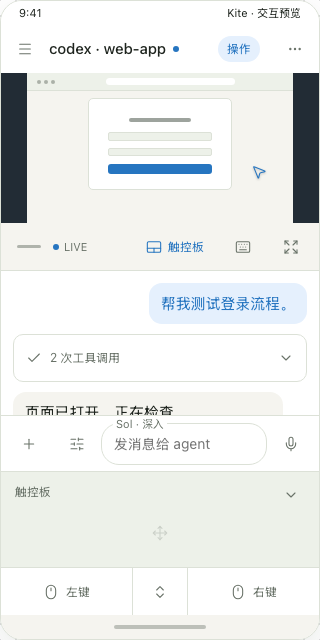
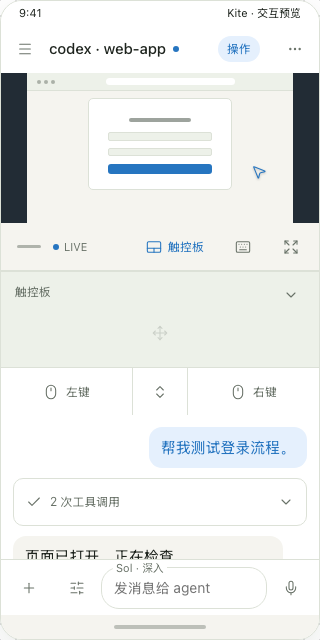
Place the trackpad below the desktop and above chat

diff --git a/docs/product/2026-10-30/compact-controls/compact-controls.html b/docs/product/2026-10-30/compact-controls/compact-controls.html
@@ -49,7 +49,7 @@
     #kite-compact-preview .input-shell{position:relative;flex:1;min-width:0;height:42px;border:1px solid var(--kite-line);border-radius:18px;background:var(--kite-surface)}
     #kite-compact-preview .model-label{position:absolute;left:11px;top:-8px;background:var(--kite-surface);padding:0 3px;color:var(--kite-muted);font-size:11px;white-space:nowrap}
     #kite-compact-preview .input-shell input{width:100%;height:100%;padding:6px 12px;border:0;outline-offset:2px;background:transparent;font-size:14px}
-    #kite-compact-preview .bottom{flex:none;overflow:hidden;background:var(--kite-bg)}
+    #kite-compact-preview .bottom,#kite-compact-preview .pad-slot{flex:none;overflow:hidden;background:var(--kite-bg)}
     #kite-compact-preview .trackpad{position:relative}
     #kite-compact-preview .trackpad::before{content:"";position:absolute;top:0;left:0;right:0;height:1px;background:var(--kite-line);z-index:1;pointer-events:none}
     #kite-compact-preview .pad-area{position:relative;display:block;width:100%;height:calc(var(--kite-pad-height,176px) - 48px);padding:0;background:var(--kite-soft);color:var(--kite-muted);border-radius:0;cursor:default}
@@ -83,7 +83,7 @@
     #kite-compact-preview .popover{position:absolute;z-index:10;right:8px;bottom:80px;width:240px;padding:14px;background:var(--kite-surface);border:1px solid var(--kite-line);border-radius:14px;box-shadow:0 8px 24px #00000026}
     #kite-compact-preview .popover label{display:block;font-size:12px;color:var(--kite-muted);margin-bottom:8px}
     #kite-compact-preview .popover select{display:block;width:100%;min-height:44px;border:1px solid var(--kite-line);border-radius:6px;background:var(--kite-surface);padding:6px;font:inherit;color:var(--kite-ink)}
-    #kite-compact-preview .is-fullscreen .status,#kite-compact-preview .is-fullscreen .appbar,#kite-compact-preview .is-fullscreen .divider,#kite-compact-preview .is-fullscreen .chat,#kite-compact-preview .is-fullscreen .composer,#kite-compact-preview .is-fullscreen .bottom,#kite-compact-preview .is-fullscreen .nav{display:none}
+    #kite-compact-preview .is-fullscreen .status,#kite-compact-preview .is-fullscreen .appbar,#kite-compact-preview .is-fullscreen .divider,#kite-compact-preview .is-fullscreen .pad-slot,#kite-compact-preview .is-fullscreen .chat,#kite-compact-preview .is-fullscreen .composer,#kite-compact-preview .is-fullscreen .bottom,#kite-compact-preview .is-fullscreen .nav{display:none}
     #kite-compact-preview .is-fullscreen .main{height:100%}
     #kite-compact-preview .is-fullscreen .video{flex:1;height:auto!important}
     #kite-compact-preview .is-fullscreen .rail{display:flex}
@@ -92,9 +92,9 @@
     #kite-compact-preview .is-fullscreen.keyboard-visible .rail{display:none}
     #kite-compact-preview .feedback{position:absolute;pointer-events:none;z-index:7;left:50%;top:10px;transform:translateX(-50%);background:var(--kite-dark);color:var(--kite-on-dark);padding:5px 10px;border-radius:10px;font-size:11px}
     #kite-compact-preview .sr{position:absolute;width:1px;height:1px;overflow:hidden;clip-path:inset(50%)}
-    @media(prefers-reduced-motion:no-preference){#kite-compact-preview .bottom{transition:height 180ms ease-out}#kite-compact-preview .login{transition:transform 180ms ease-out}}
+    @media(prefers-reduced-motion:no-preference){#kite-compact-preview .bottom,#kite-compact-preview .pad-slot{transition:height 180ms ease-out}#kite-compact-preview .login{transition:transform 180ms ease-out}}
   </style>
-  <section class="device" aria-label="Kite 分屏与底部触控板交互草案">
+  <section class="device" aria-label="Kite 桌面、触控板、Chat 布局草案">
     <div class="status"><span>9:41</span><span>Kite · 交互预览</span></div>
     <header class="appbar">
       <button type="button" class="ctl cursor-interaction" aria-label="会话列表"><i data-lucide="menu" aria-hidden="true"></i></button>
@@ -118,19 +118,7 @@
         <button type="button" class="ctl cursor-interaction" data-action="keyboard" aria-label="打开键盘"><i data-lucide="keyboard" aria-hidden="true"></i></button>
         <button type="button" class="ctl cursor-interaction" data-action="fullscreen" aria-label="全屏桌面"><i data-lucide="expand" aria-hidden="true"></i></button>
       </div>
-      <div class="chat" aria-label="聊天">
-        <div class="message user">帮我测试登录流程。</div>
-        <button type="button" class="tool cursor-interaction" aria-expanded="false"><i data-lucide="check" aria-hidden="true"></i><span>2 次工具调用</span><i data-lucide="chevron-down" aria-hidden="true"></i></button>
-        <div class="tool-detail" hidden>打开浏览器 · 检查登录页面</div>
-        <div class="message">页面已打开，正在检查。<br>你也可以<strong>直接点桌面</strong>，或用下方触控板操作。</div>
-      </div>
-      <div class="composer">
-        <button type="button" class="ctl cursor-interaction" data-action="attach" aria-label="添加附件"><i data-lucide="plus" aria-hidden="true"></i></button>
-        <button type="button" class="ctl cursor-interaction" data-action="model" aria-label="模型与思考强度"><i data-lucide="sliders-horizontal" aria-hidden="true"></i></button>
-        <label class="input-shell"><span class="model-label">Sol · 深入</span><input readonly inputmode="none" placeholder="发消息给 agent" aria-label="聊天输入预览"></label>
-        <button type="button" class="ctl cursor-interaction" data-action="voice" aria-label="语音输入"><i data-lucide="mic" aria-hidden="true"></i></button>
-      </div>
-      <div class="bottom">
+      <div class="pad-slot" aria-label="桌面下方触控板">
         <div class="trackpad">
           <button type="button" class="pad-area" aria-label="触控板移动区"><span class="pad-label">触控板</span><span class="pad-mark"><i data-lucide="move" aria-hidden="true"></i></span></button>
           <button type="button" class="ctl pad-close cursor-interaction" data-action="close-pad" aria-label="收起触控板"><i data-lucide="chevron-down" aria-hidden="true"></i></button>
@@ -140,6 +128,20 @@
             <button type="button" class="mouse-key" data-mouse="right"><i data-lucide="mouse" aria-hidden="true"></i><span>右键</span></button>
           </div>
         </div>
+      </div>
+      <div class="chat" aria-label="聊天">
+        <div class="message user">帮我测试登录流程。</div>
+        <button type="button" class="tool cursor-interaction" aria-expanded="false"><i data-lucide="check" aria-hidden="true"></i><span>2 次工具调用</span><i data-lucide="chevron-down" aria-hidden="true"></i></button>
+        <div class="tool-detail" hidden>打开浏览器 · 检查登录页面</div>
+        <div class="message">页面已打开，正在检查。<br>你也可以<strong>直接点桌面</strong>，或用桌面下方的触控板操作。</div>
+      </div>
+      <div class="composer">
+        <button type="button" class="ctl cursor-interaction" data-action="attach" aria-label="添加附件"><i data-lucide="plus" aria-hidden="true"></i></button>
+        <button type="button" class="ctl cursor-interaction" data-action="model" aria-label="模型与思考强度"><i data-lucide="sliders-horizontal" aria-hidden="true"></i></button>
+        <label class="input-shell"><span class="model-label">Sol · 深入</span><input readonly inputmode="none" placeholder="发消息给 agent" aria-label="聊天输入预览"></label>
+        <button type="button" class="ctl cursor-interaction" data-action="voice" aria-label="语音输入"><i data-lucide="mic" aria-hidden="true"></i></button>
+      </div>
+      <div class="bottom">
         <div class="keyboard-area" hidden><span>键盘</span><button type="button" class="ctl cursor-interaction" data-action="hide-keyboard" aria-label="收起键盘"><i data-lucide="chevron-down" aria-hidden="true"></i></button></div>
       </div>
     </main>
@@ -166,18 +168,19 @@
     (() => {
       const root=document.getElementById("kite-compact-preview");
       const q=s=>root.querySelector(s);
-      const device=q(".device"),video=q(".video"),plane=q(".plane"),bottom=q(".bottom"),trackpad=q(".trackpad"),keyboard=q(".keyboard-area"),floating=q(".mouse-float"),entry=q(".mouse-entry"),body=q(".mouse-body"),popover=q(".popover");
+      const device=q(".device"),video=q(".video"),plane=q(".plane"),bottom=q(".bottom"),padSlot=q(".pad-slot"),trackpad=q(".trackpad"),keyboard=q(".keyboard-area"),floating=q(".mouse-float"),entry=q(".mouse-entry"),body=q(".mouse-body"),popover=q(".popover");
       const config={width:360,height:780,padHeight:176};
       const state={surface:"pad",operate:true,fullscreen:false,expanded:false,cursor:{x:.62,y:.58},position:{x:.72,y:.58},held:new Map(),resize:0,scroll:0};
       let toastTimer;
       const clamp=(n,a,b)=>Math.max(a,Math.min(b,n));
       function announce(text){q('[role="status"]').textContent=text;}
       function save(){
-        if(window.openai&&window.openai.setWidgetState)window.openai.setWidgetState({modelContent:{proposal:"底部独立触控板",surface:state.surface,fullscreen:state.fullscreen,operate:state.operate},privateContent:{position:state.position,expanded:state.expanded}}).catch(()=>{});
+        if(window.openai&&window.openai.setWidgetState)window.openai.setWidgetState({modelContent:{proposal:"桌面-触控板-Chat",layoutRevision:2,surface:state.surface,fullscreen:state.fullscreen,operate:state.operate},privateContent:{position:state.position,expanded:state.expanded}}).catch(()=>{});
       }
       function restore(value){
         if(!value)return;
         const a=value.modelContent||{},b=value.privateContent||{};
+        if(a.layoutRevision!==2)return;
         if(["pad","none","keyboard"].includes(a.surface))state.surface=a.surface;
         if(typeof a.operate==="boolean")state.operate=a.operate;
         if(typeof a.fullscreen==="boolean")state.fullscreen=a.fullscreen;
@@ -207,7 +210,8 @@
         root.style.setProperty("--kite-pad-height",padHeight+"px");
         const surface=state.surface;
         trackpad.hidden=surface!=="pad";keyboard.hidden=surface!=="keyboard";
-        bottom.style.height=(state.fullscreen?(surface==="keyboard"?228:0):surface==="pad"?padHeight:surface==="keyboard"?228:0)+"px";
+        padSlot.style.height=(!state.fullscreen&&surface==="pad"?padHeight:0)+"px";
+        bottom.style.height=(surface==="keyboard"?228:0)+"px";
         q(".pad-toggle").classList.toggle("is-active",surface==="pad");q(".pad-toggle").setAttribute("aria-pressed",String(surface==="pad"));
         q(".mode span").textContent=state.operate?"操作":"只看";
         const max=state.surface==="keyboard"?72:device.clientWidth*9/16;

diff --git a/docs/implementation-plan.md b/docs/implementation-plan.md
@@ -4,7 +4,7 @@ The user authorized staged implementation, retaining existing history, host trus
 
 Delivery recorded here: [0.2.0-alpha.11](https://github.com/wenshiqi0/Kite/releases/tag/v0.2.0-alpha.11), Android versionCode **13**, published as a GitHub prerelease. The [delivery evidence](product/2026-10-30/hybrid-input/published-release.json) identifies the exact source, APK checksum and passing CI runs. The downloaded Release APK passed upgrade, reconnection, pairing reuse and automatic bidirectional clipboard checks on the API 36 emulator; physical-phone responsiveness and WAN behavior remain unverified for this version.
 
-1. **Android experience (Alpha 11 delivered; control layout revision under design):** dismissible sidebar, Markdown emphasis in choices/approval prose and streaming replies, mixed direct touch and virtual mouse, continuous wheel/held buttons, and automatic bidirectional text clipboard with one setting. [Native/emulator acceptance](product/2026-10-30/hybrid-input/acceptance.md). Clipboard sharing is initially off, works for text while the focused desktop is in Operate, and pauses in Watch/background; image/file clipboard formats remain pending. Subsequent phone feedback rejected the bulky overlay and limited dragging. The user selected a separate bottom trackpad for portrait split view; [RFC 0011 and its preview](rfcs/0011-compact-desktop-controls.md) describe the revision. This design has not yet changed the APK.
+1. **Android experience (Alpha 11 delivered; control layout revision under design):** dismissible sidebar, Markdown emphasis in choices/approval prose and streaming replies, mixed direct touch and virtual mouse, continuous wheel/held buttons, and automatic bidirectional text clipboard with one setting. [Native/emulator acceptance](product/2026-10-30/hybrid-input/acceptance.md). Clipboard sharing is initially off, works for text while the focused desktop is in Operate, and pauses in Watch/background; image/file clipboard formats remain pending. Subsequent phone feedback rejected the bulky overlay and limited dragging. The user fixed the portrait order as desktop → collapsible trackpad → Chat → message composer; [RFC 0011 and its preview](rfcs/0011-compact-desktop-controls.md) describe the revision. This design has not yet changed the APK.
 2. **herdr-core migration experiment (restoration feasibility verified):** isolated herdr-core 0.1.14 reattached the same disposable Codex thread, displayed its old history, and the model recalled the previous token. A follow-up stopped the old owner and repeated restoration with a fresh provider process without legacy pane environment; JSON-RPC confirmed the original thread ID. [Recorded result](product/2026-10-30/herdr-core-migration.md). Production remains on Herdr TUI. Runtime-independent identity/routing, questions/approvals, automatic recovery and full archive/restore still need validation before a migration RFC is accepted.
 3. **macOS/Linux desktop nodes (pending):** client UI plus managed Sunshine and agent runtime; platform display/input/clipboard/process adapters; GUI shutdown independent of host services; preserve external user-owned services.
 4. **Multi-machine MCP (pending):** machine/session identity, explicit tool targets, durable work/messages/results and artifact references, local stdio integration and authenticated peer transport. MCP exposes the operations; task delivery, restoration and input ownership are application state.

diff --git a/docs/product/2026-10-30/compact-controls/README.md b/docs/product/2026-10-30/compact-controls/README.md
@@ -2,14 +2,14 @@
 
 **Status: interactive design only. No Android client change or new APK is delivered by this proposal.** The user reviewed Alpha 11 and reported excessive control size, a bulky collapsed state, restricted dragging and poor space usage in portrait split view.
 
-The user's follow-up chose a specific portrait interaction: open a separate bottom surface with a laptop-style trackpad above left/right buttons and a wheel between them. Closing it returns the space to chat. Fullscreen uses a separate compact mouse control informed by the user's UU expanded/collapsed reference images. Those images were reviewed as references; the captures below use only constructed test content.
+The user's follow-up fixed the portrait order: **desktop → collapsible trackpad → Chat → message composer**. The laptop-style trackpad opens directly below the desktop controls, with a movement area above left/right buttons and a wheel between them. Chat stays below the trackpad and the composer stays at the bottom. Closing the trackpad moves Chat upward into the released space. Fullscreen uses a separate compact mouse control informed by the user's UU expanded/collapsed reference images. Those images were reviewed as references; the captures below use only constructed test content.
 
 The complete decisions and native acceptance requirements are in [RFC 0011](../../../rfcs/0011-compact-desktop-controls.md). Existing source resolution, input coordinate mapping, explicit Watch/Operate, separate agent pause, history/identity and automatic clipboard behavior are retained.
 
 ## Preview states
 
-- [Bottom trackpad open](split-open.png): chat and composer participate in layout above a 176dp bottom surface; video remains clear.
-- [Bottom trackpad closed](split-closed.png): the surface disappears and space returns to chat; Operate remains selected.
+- [Trackpad below desktop](split-open.png): a 176dp trackpad sits between the desktop controls and Chat; the composer stays at the bottom.
+- [Trackpad closed](split-closed.png): Chat moves upward into the released space and the composer keeps its bottom position; Operate remains selected.
 - [Small window](small-window.png): a 320×640 logical window uses a 144dp trackpad and retains a usable chat region.
 - [Fullscreen collapsed mouse](fullscreen-icon.png) and [expanded mouse](fullscreen-mouse.png): small visible graphics, explicit touch areas and workspace-level positioning.
 - [Dark appearance](split-dark.png): the same geometry at a narrow preview width.

diff --git a/docs/README.md b/docs/README.md
@@ -11,7 +11,7 @@
 
 ## Delivery and evaluation records
 
-- [Compact controls proposal](product/2026-10-30/compact-controls/README.md): separate bottom trackpad in portrait split view and compact fullscreen mouse; interactive design only, pending native implementation.
+- [Compact controls proposal](product/2026-10-30/compact-controls/README.md): portrait desktop → trackpad → Chat, with a compact fullscreen mouse; interactive design only, pending native implementation.
 - [Alpha 11 interaction acceptance](product/2026-10-30/hybrid-input/acceptance.md): automatic text clipboard, hybrid mouse/touch, rich text and sidebar fixes; includes public APK verification and upgrade results.
 - [herdr-core restoration evaluation](product/2026-10-30/herdr-core-migration.md): same-thread recovery with the existing provider and after a fresh provider process restart; remaining migration requirements.
 - [Alpha 10 installation investigation](product/2026-10-30/install-signatures/acceptance.md): signing checks, emulator update and subsequent user-reported handset installation success.
